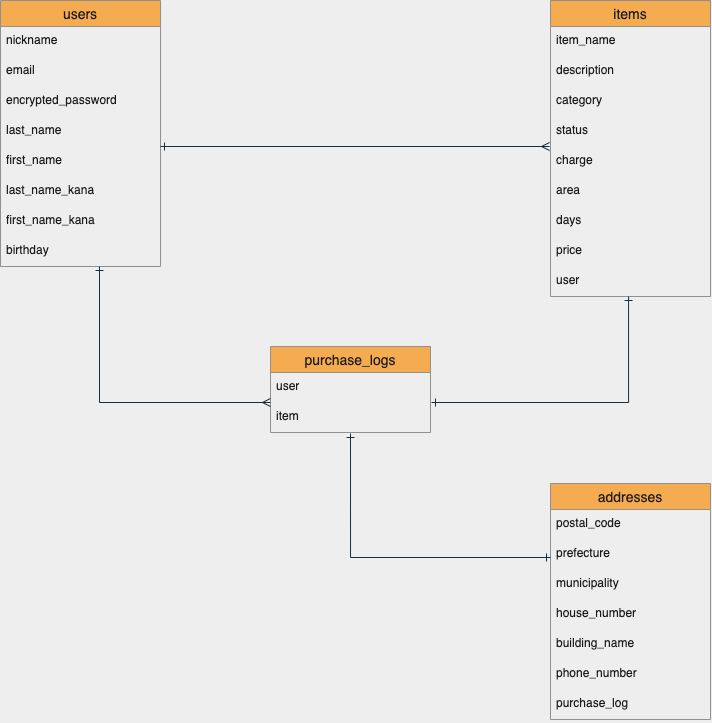
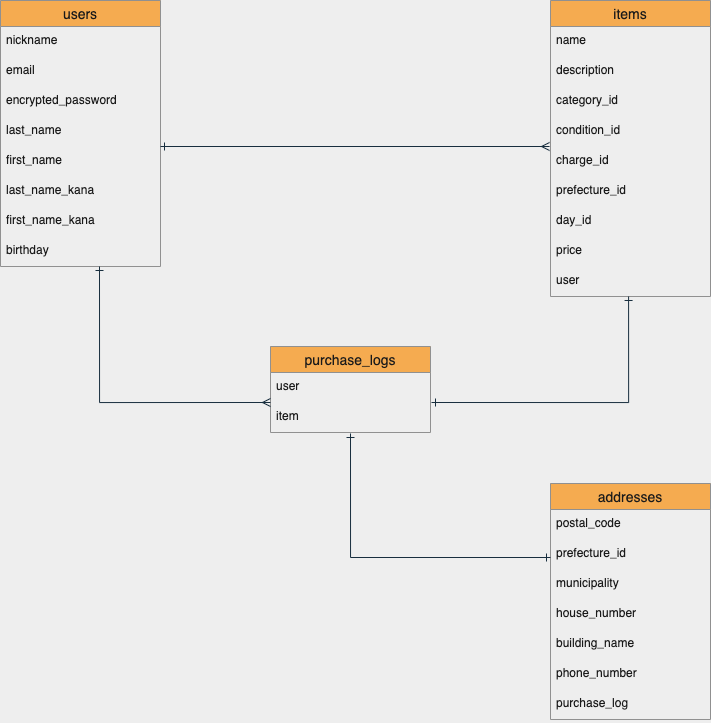
DB設計ver.3

diff --git a/README.md b/README.md
@@ -24,13 +24,13 @@
 
 | Column | Type | Option |
 | ------ | ---- | ------ |
-| item_name | string | null: false |
+| name | string | null: false |
 | description | text | null: false |
-| category | integer | null: false |
-| status | integer | null: false |
-| charge | integer | null: false |
-| area | integer | null: false |
-| days | integer | null: false |
+| category_id | integer | null: false |
+| condition_id | integer | null: false |
+| charge_id | integer | null: false |
+| prefecture_id | integer | null: false |
+| day_id | integer | null: false |
 | price | integer | null: false |
 | user | references | null: false, foreign_key: true |
 
@@ -57,7 +57,7 @@
 | Column | Type | Option |
 | ------ | ---- | ------ |
 | postal_code | string | null: false |
-| prefecture | string | null: false |
+| prefecture_id | integer | null: false |
 | municipality | string | null: false |
 | house_number | string | null: false |
 | building_name | string |  |
